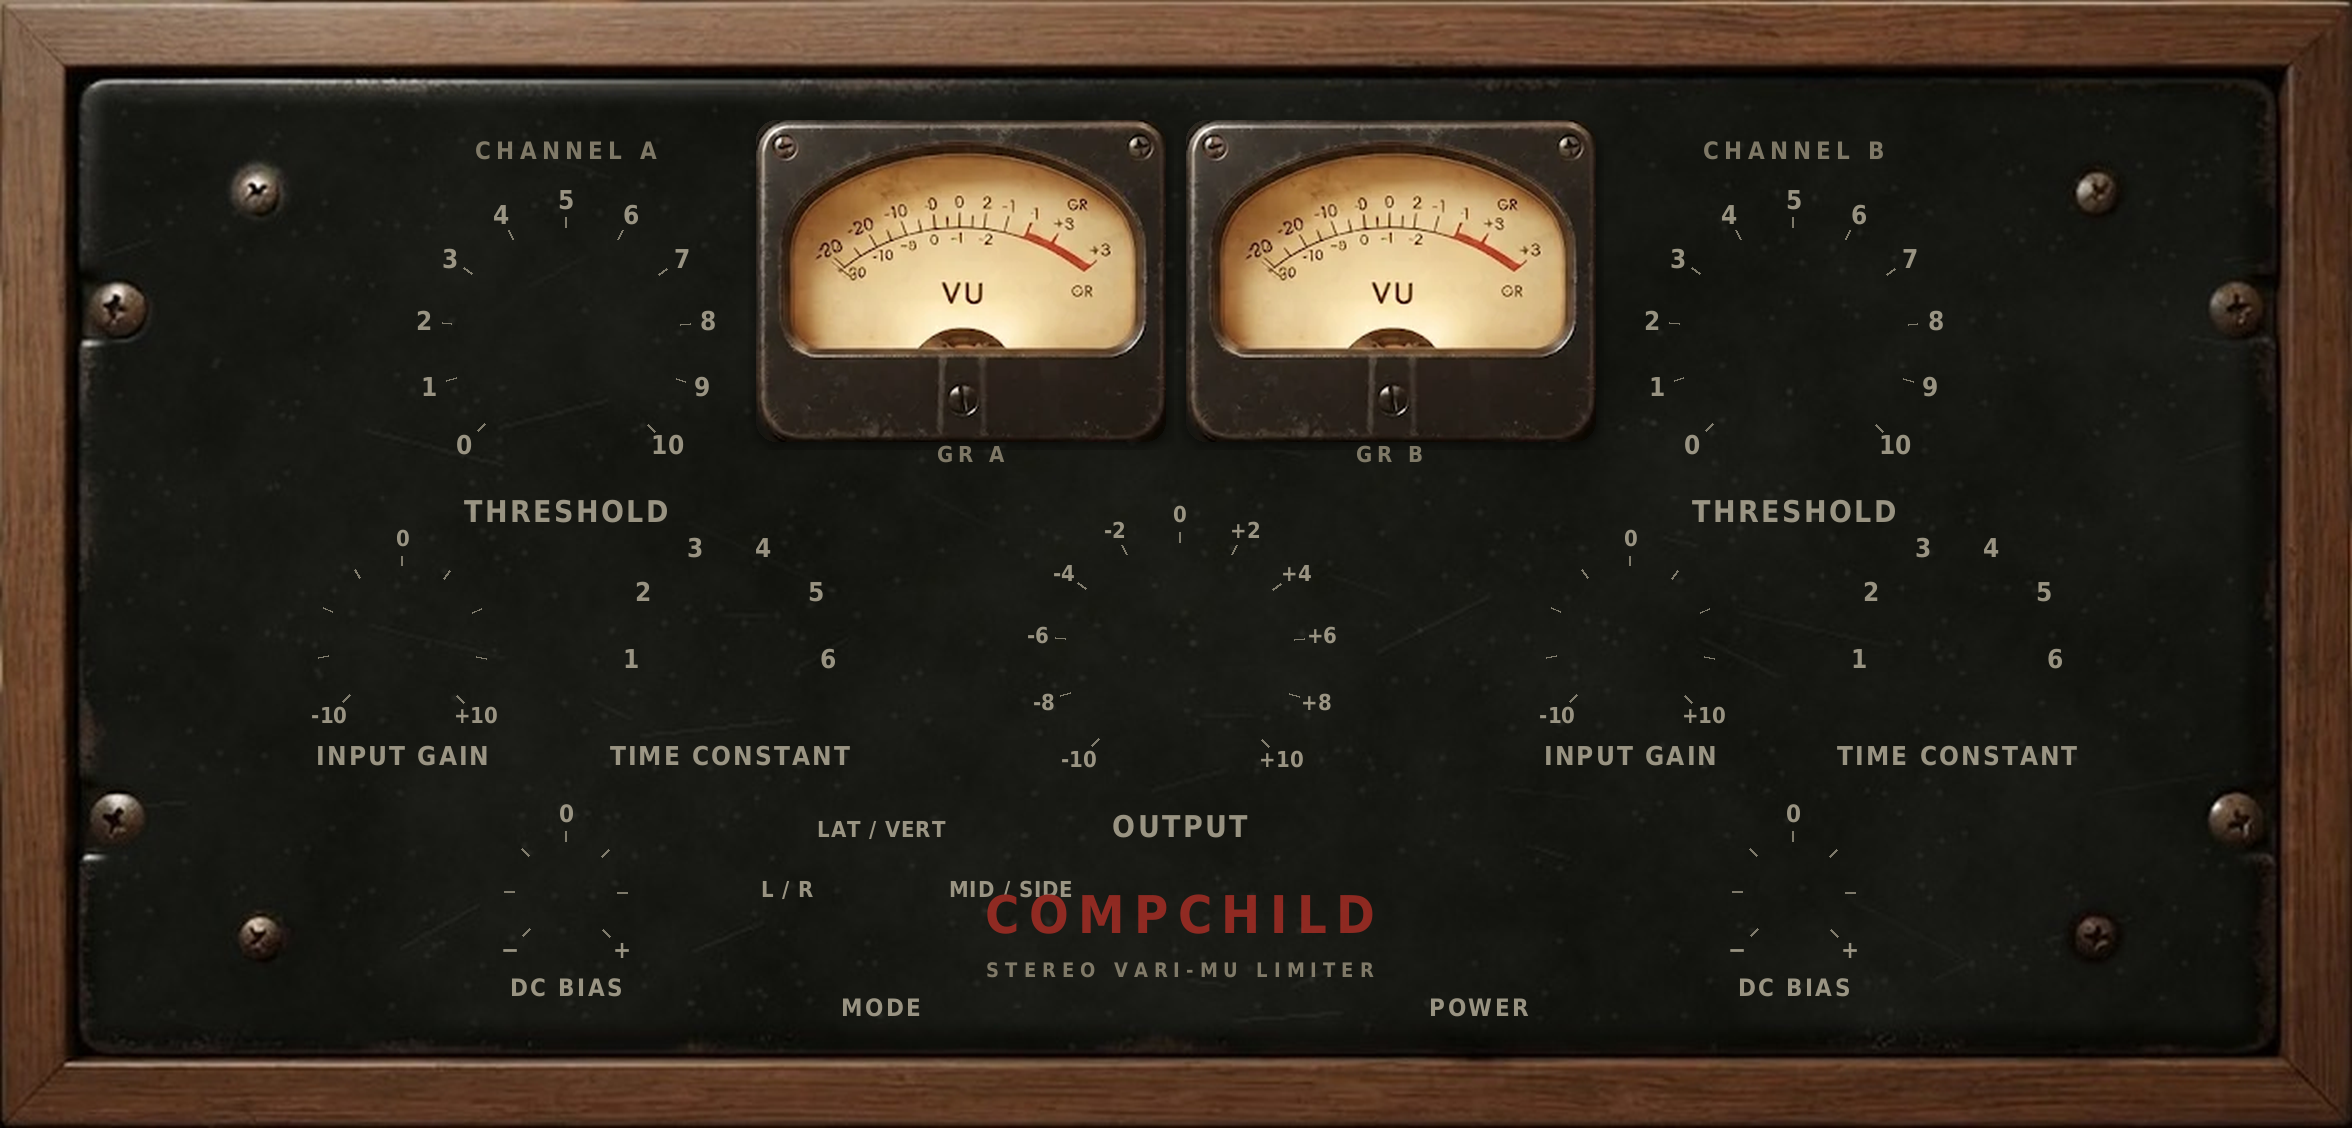
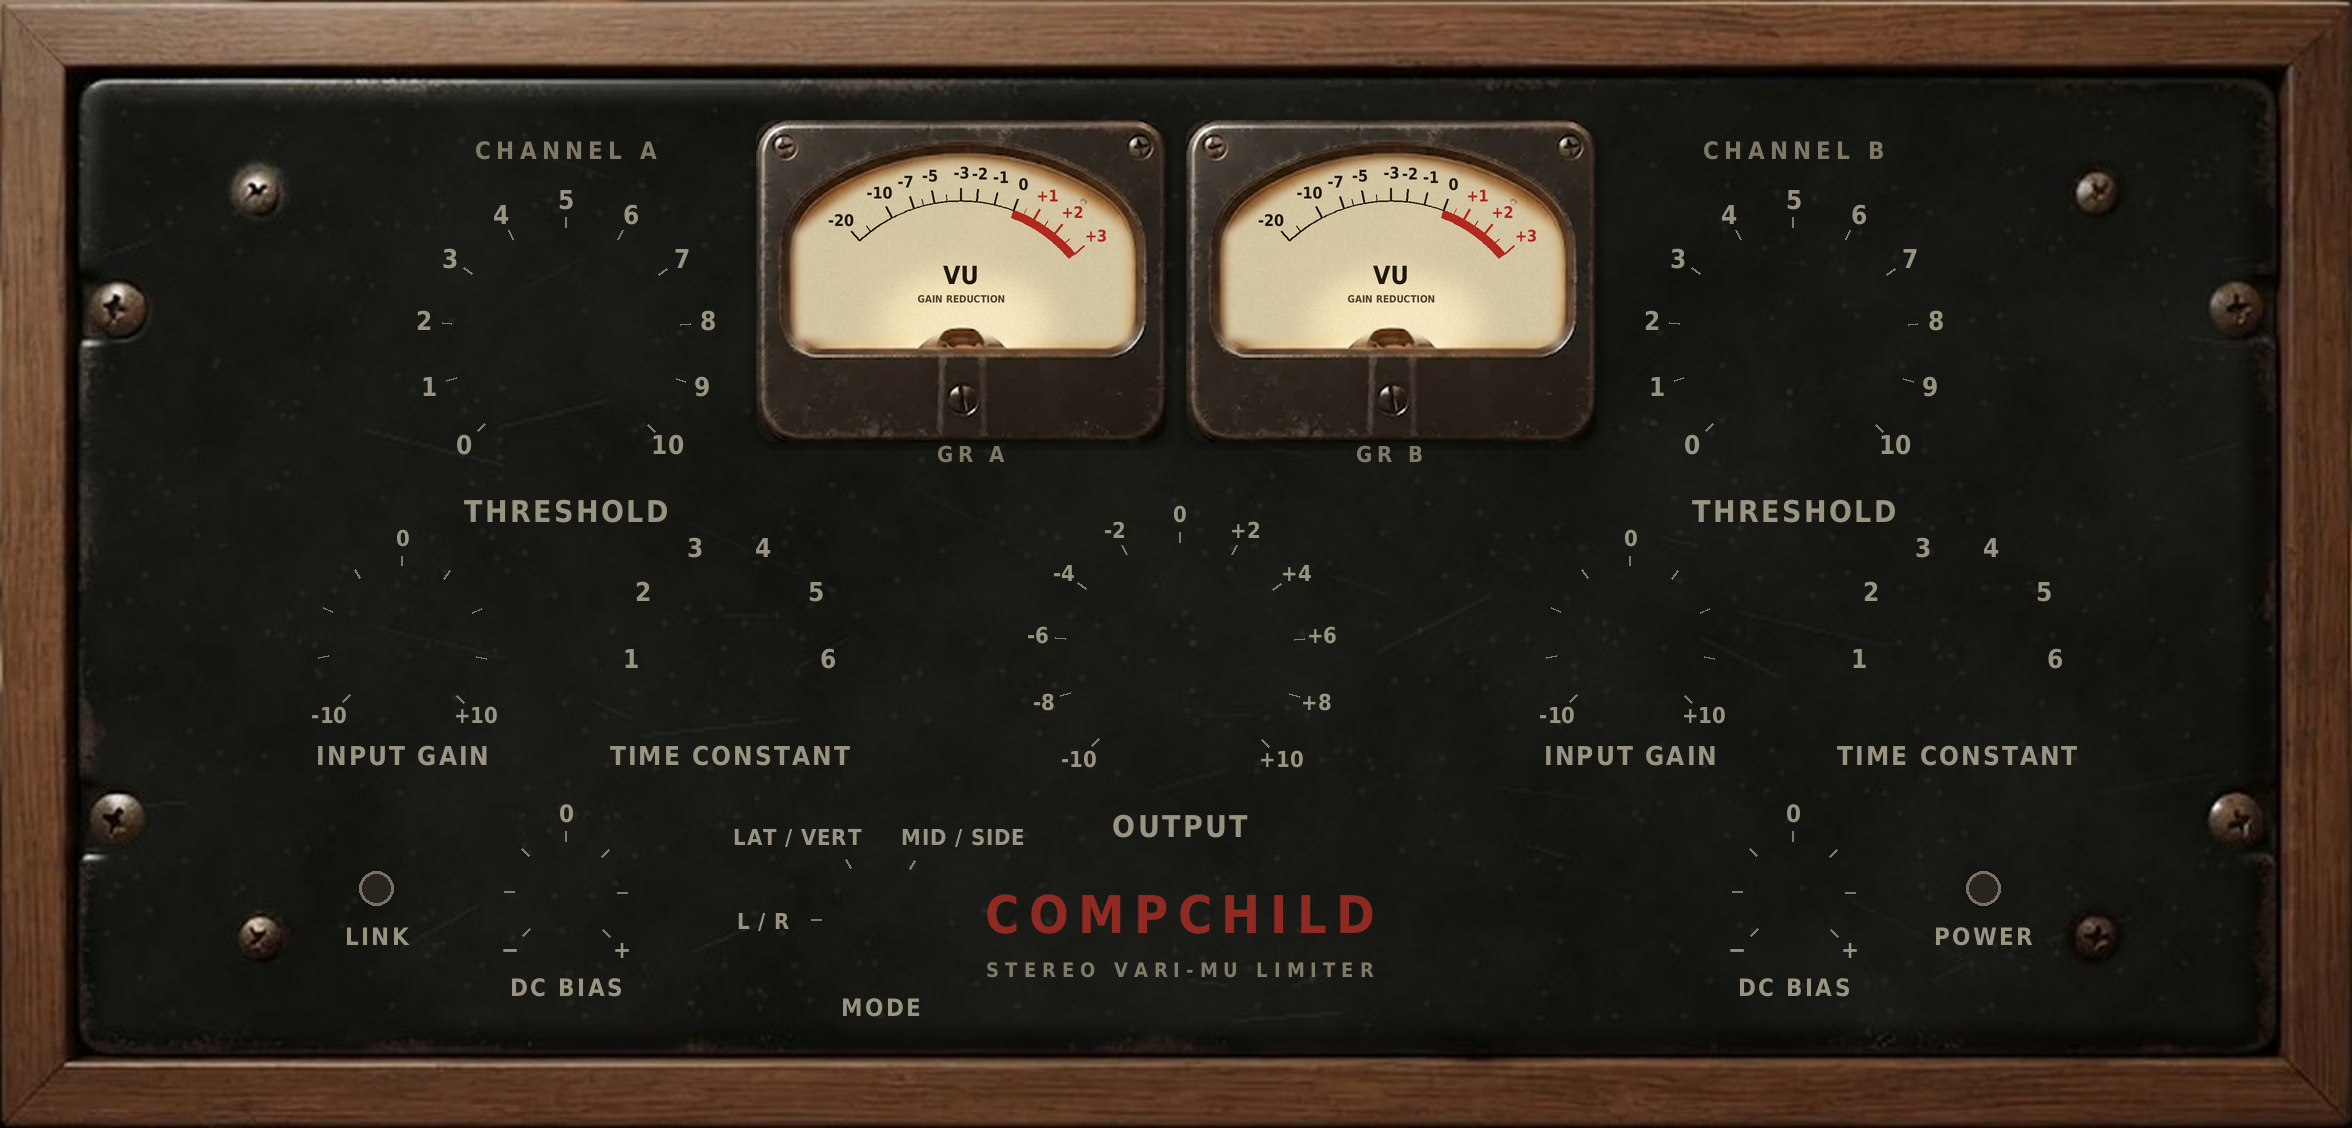
UI: real VU scale and needles, clear title, red LINK/POWER lamps
- meter faces repainted with a standard VU scale; needles pivot under the
  dome, taper, cast a shadow and stay inside the glass; GR reads on the scale
- MODE labels moved so they no longer overlap the title
- LINK and POWER are now jewel lamps with engraved labels in the lower corners

Claude-Session: https://claude.ai/code/session_01XSiDmkCVUNyHSyFPCkZesz

diff --git a/Source/PluginEditor.cpp b/Source/PluginEditor.cpp
@@ -5,17 +5,40 @@ namespace
 {
     constexpr int kW = 1176, kH = 564;
 
-    // VU meters: face top-left corners, needle pivot inside the face, needle length
+    // VU meters: face top-left corners, needle pivot (centre of the dome), needle length
     constexpr float vuLeft[2] = { 378.0f, 593.0f };
-    constexpr float vuTop = 60.0f, pivotX = 102.5f, pivotY = 114.7f, needleLen = 80.0f;
-    constexpr float needleRest = -52.0f, needleZero = 0.0f;   // left peg / 0 dB GR mark
+    constexpr float vuTop = 60.0f, pivotX = 102.5f, pivotY = 114.7f, needleLen = 79.0f;
+    constexpr float faceScale = 205.0f / 486.0f;              // face artwork coordinates -> editor
 
-    // power button + LED, link button (editor coordinates, from the design)
-    const juce::Point<float> powerCentre { 738.0f, 476.0f };
-    const juce::Point<float> ledCentre   { 758.5f, 475.5f };
-    const juce::Rectangle<int> linkBounds { 554, 226, 68, 24 };
+    // VU law: deflection follows voltage, +3 VU = full scale, sweep -50..+50 degrees
+    float vuAngle (float vu) { return -50.0f + 100.0f * std::pow (10.0f, vu / 20.0f) / std::pow (10.0f, 3.0f / 20.0f); }
+    constexpr float needleRest = -50.0f;                       // left stop (power off)
 
-    const juce::Colour orange (0xffffb020), orangeDeep (0xffff7a00);
+    // glass window of the meter face (same shape the face artwork was cleaned with)
+    juce::Path glassPath (float left)
+    {
+        juce::Path p;
+        auto px = [&] (float x) { return left + x * faceScale; };
+        auto py = [&] (float y) { return vuTop + y * faceScale; };
+        p.startNewSubPath (px (46.0f), py (262.0f));
+        for (int i = 0; i <= 60; ++i)
+        {
+            const float x = 46.0f + (440.0f - 46.0f) * (float) i / 60.0f, t = (x - 243.0f) / 203.0f;
+            p.lineTo (px (x), py (40.0f + 92.0f * t * t + 4.0f));
+        }
+        p.lineTo (px (440.0f), py (262.0f));
+        p.closeSubPath();
+        return p;
+    }
+    // dome sprite position inside the face (artwork made at 4x the 205x161 face)
+    const juce::Rectangle<float> domeBox { 357.0f / 4.0f, 406.0f / 4.0f, 105.0f / 4.0f, 54.0f / 4.0f };
+
+    // LINK (bottom left) and POWER (bottom right): button centres and the jewel lamps above them
+    // (the lamp and its word are the clickable area)
+    const juce::Point<float> linkLamp  { 188.4f, 444.4f }, powerLamp { 991.6f, 444.4f };
+    const juce::Rectangle<float> hitArea { 70.0f, 50.0f };   // centred on lamp + label
+
+    const juce::Colour orange (0xffffb020), orangeDeep (0xffff7a00), lampRed (0xffff2a12);
 
     juce::Image loadPng (const void* data, int size) { return juce::ImageCache::getFromMemory (data, size); }
 }
@@ -47,7 +70,7 @@ void CompchildLookAndFeel::drawRotarySlider (juce::Graphics& g, int x, int y, in
     else if (kind == 2)   // mode: L/R, LAT/VERT, MID/SIDE
     {
         const int idx = juce::roundToInt (pos * 2.0f);
-        angleDeg = -50.0f + 50.0f * (float) idx - 15.0f;
+        angleDeg = -90.0f + 60.0f * (float) idx - 15.0f;     // L/R, LAT/VERT, MID/SIDE
         img = &knobPointer;
     }
     else                  // big black knob: image is drawn at its minimum position
@@ -68,69 +91,21 @@ void CompchildLookAndFeel::drawRotarySlider (juce::Graphics& g, int x, int y, in
 }
 
 //==============================================================================
-void PowerButton::paintButton (juce::Graphics& g, bool over, bool)
+void PanelButton::paintButton (juce::Graphics& g, bool over, bool)
 {
-    const auto b = getLocalBounds().toFloat().reduced (1.0f);
-    const bool on = getToggleState();
-
-    if (on)
+    // nothing to draw: the lamp (editor) and the engraved word (panel) are the button
+    if (over)
     {
-        for (int i = 3; i >= 1; --i)
-        {
-            g.setColour (orangeDeep.withAlpha (0.10f * (float) i));
-            g.fillEllipse (b.expanded ((float) (4 - i) * 2.0f).reduced (0.0f));
-        }
+        g.setColour (juce::Colours::white.withAlpha (0.04f));
+        g.fillRoundedRectangle (getLocalBounds().toFloat().reduced (2.0f), 6.0f);
     }
-    juce::ColourGradient grad (juce::Colour (0xff2c2b28), b.getX() + b.getWidth() * 0.4f, b.getY() + b.getHeight() * 0.35f,
-                               juce::Colour (0xff0b0b0a), b.getRight(), b.getBottom(), true);
-    g.setGradientFill (grad);
-    g.fillEllipse (b);
-    g.setColour (juce::Colour (over ? 0xff57534a : 0xff3a3833));
-    g.drawEllipse (b, 1.5f);
-
-    if (icon.isValid())
-    {
-        const auto ib = b.reduced (b.getWidth() * 0.12f);
-        if (on)
-        {
-            g.setColour (orange);
-            g.drawImage (icon, ib, juce::RectanglePlacement::centred, true);   // tint the icon orange
-        }
-        else
-        {
-            g.setOpacity (0.75f);
-            g.drawImage (icon, ib, juce::RectanglePlacement::centred, false);
-        }
-    }
-}
-
-void LinkButton::paintButton (juce::Graphics& g, bool over, bool)
-{
-    const auto b = getLocalBounds().toFloat().reduced (0.5f);
-    const bool on = getToggleState();
-    g.setColour (juce::Colour (0xff0f0f0e));
-    g.fillRoundedRectangle (b, b.getHeight() * 0.5f);
-    g.setColour (juce::Colour (over ? 0xff57534a : 0xff3a3833));
-    g.drawRoundedRectangle (b, b.getHeight() * 0.5f, 1.0f);
-
-    const juce::Rectangle<float> led (b.getX() + 12.0f, b.getCentreY() - 3.5f, 7.0f, 7.0f);
-    if (on)
-    {
-        g.setColour (orangeDeep.withAlpha (0.35f));
-        g.fillEllipse (led.expanded (3.0f));
-    }
-    g.setColour (on ? orange : juce::Colour (0xff3a3833));
-    g.fillEllipse (led);
-
-    g.setColour (on ? juce::Colour (0xffffc061) : juce::Colour (0xff8a8273));
-    g.setFont (juce::Font (juce::FontOptions (11.0f, juce::Font::bold)).withExtraKerningFactor (0.14f));
-    g.drawText ("LINK", b.withTrimmedLeft (24.0f), juce::Justification::centredLeft);
 }
 
 //==============================================================================
 CompchildEditor::CompchildEditor (CompchildProcessor& p) : AudioProcessorEditor (&p), proc (p)
 {
     background = loadPng (BinaryData::background_png, BinaryData::background_pngSize);
+    dome       = loadPng (BinaryData::vu_dome_png,    BinaryData::vu_dome_pngSize);
     power.icon = loadPng (BinaryData::power_png, BinaryData::power_pngSize);
 
     // layout from the Compchild wood-panel design (1176 x 564)
@@ -168,7 +143,7 @@ CompchildEditor::CompchildEditor (CompchildProcessor& p) : AudioProcessorEditor 
     link.setTooltip ("Link: channel A controls both channels");
     powerAtt = std::make_unique<juce::AudioProcessorValueTreeState::ButtonAttachment> (proc.apvts, ids::power, power);
     linkAtt  = std::make_unique<juce::AudioProcessorValueTreeState::ButtonAttachment> (proc.apvts, ids::link,  link);
-    link.onClick = [this] { if (link.getToggleState()) copyAtoB(); };
+    link.onClick = [this] { if (link.getToggleState()) copyAtoB(); repaint(); };
     power.onClick = [this] { repaint(); };
 
     setSize (kW, kH);
@@ -222,8 +197,8 @@ void CompchildEditor::resized()
         const float cx = (float) props["cx"], cy = (float) props["cy"], size = (float) props["size"];
         k->slider.setBounds (juce::Rectangle<float> (size, size).withCentre ({ cx, cy }).transformedBy (juce::AffineTransform::scale (sc)).toNearestInt());
     }
-    power.setBounds (juce::Rectangle<float> (24.0f, 24.0f).withCentre (powerCentre).transformedBy (juce::AffineTransform::scale (sc)).toNearestInt());
-    link.setBounds (linkBounds.toFloat().transformedBy (juce::AffineTransform::scale (sc)).toNearestInt());
+    power.setBounds (hitArea.withCentre (powerLamp.translated (0.0f, 12.0f)).transformedBy (juce::AffineTransform::scale (sc)).toNearestInt());
+    link.setBounds  (hitArea.withCentre (linkLamp.translated  (0.0f, 12.0f)).transformedBy (juce::AffineTransform::scale (sc)).toNearestInt());
 }
 
 void CompchildEditor::paint (juce::Graphics& g)
@@ -241,29 +216,53 @@ void CompchildEditor::paintOverChildren (juce::Graphics& g)
     const float sc = (float) getWidth() / (float) kW;
     g.addTransform (juce::AffineTransform::scale (sc));
 
-    // VU needles
+    // VU needles: pivot under the dome, tapered, with a soft shadow on the paper, clipped to the glass
     for (int i = 0; i < 2; ++i)
     {
+        juce::Graphics::ScopedSaveState ss (g);
+        g.reduceClipRegion (glassPath (vuLeft[i]));
         const juce::Point<float> pivot (vuLeft[i] + pivotX, vuTop + pivotY);
         const float a = juce::degreesToRadians (needle[i]);
-        const juce::Point<float> tip (pivot.x + needleLen * std::sin (a), pivot.y - needleLen * std::cos (a));
-        const juce::Point<float> base (pivot.x + 22.0f * std::sin (a), pivot.y - 22.0f * std::cos (a));
-        g.setColour (juce::Colours::black.withAlpha (0.25f));
-        g.drawLine ({ base.translated (1.5f, 2.0f), tip.translated (1.5f, 2.0f) }, 2.0f);
-        g.setColour (juce::Colour (0xff1b1510));
-        g.drawLine ({ base, tip }, 1.8f);
+        const juce::Point<float> dir (std::sin (a), -std::cos (a)), nrm (std::cos (a), std::sin (a));
+        auto needlePath = [&] (juce::Point<float> o)
+        {
+            juce::Path p;
+            const auto base = pivot + o, tip = pivot + o + dir * needleLen;
+            p.startNewSubPath (base + nrm * 1.6f);
+            p.lineTo (tip + nrm * 0.45f);
+            p.lineTo (tip - nrm * 0.45f);
+            p.lineTo (base - nrm * 1.6f);
+            p.closeSubPath();
+            return p;
+        };
+        g.setColour (juce::Colours::black.withAlpha (0.10f)); g.fillPath (needlePath ({ 2.6f, 3.4f }));
+        g.setColour (juce::Colours::black.withAlpha (0.16f)); g.fillPath (needlePath ({ 1.6f, 2.2f }));
+        g.setColour (juce::Colour (0xff17120d));              g.fillPath (needlePath ({ 0.0f, 0.0f }));
+        if (dome.isValid())
+            g.drawImage (dome, domeBox.translated (vuLeft[i], vuTop));
     }
 
-    // power LED
-    const bool on = power.getToggleState();
-    const auto led = juce::Rectangle<float> (7.0f, 7.0f).withCentre (ledCentre);
-    if (on)
+    // jewel lamps above LINK and POWER
+    auto lamp = [&] (juce::Point<float> c, bool lit)
     {
-        g.setColour (orangeDeep.withAlpha (0.35f));
-        g.fillEllipse (led.expanded (4.0f));
-    }
-    g.setColour (on ? orange : juce::Colour (0xff3a3833));
-    g.fillEllipse (led);
+        const auto r = juce::Rectangle<float> (12.0f, 12.0f).withCentre (c);
+        if (lit)
+        {
+            for (int i = 3; i >= 1; --i) { g.setColour (lampRed.withAlpha (0.10f * (float) i)); g.fillEllipse (r.expanded (2.5f * (float) (4 - i))); }
+            juce::ColourGradient jg (juce::Colour (0xffffb4a4), c.x - 1.5f, c.y - 2.0f, juce::Colour (0xffc4140a), r.getRight(), r.getBottom(), true);
+            g.setGradientFill (jg);
+        }
+        else
+        {
+            juce::ColourGradient jg (juce::Colour (0xff5a1a14), c.x - 1.5f, c.y - 2.0f, juce::Colour (0xff1a0806), r.getRight(), r.getBottom(), true);
+            g.setGradientFill (jg);
+        }
+        g.fillEllipse (r);
+        g.setColour (juce::Colours::white.withAlpha (lit ? 0.55f : 0.18f));
+        g.fillEllipse (juce::Rectangle<float> (3.0f, 2.2f).withCentre (c.translated (-2.0f, -2.6f)));
+    };
+    lamp (linkLamp,  link.getToggleState());
+    lamp (powerLamp, power.getToggleState());
 }
 
 void CompchildEditor::timerCallback()
@@ -273,7 +272,8 @@ void CompchildEditor::timerCallback()
     bool changed = false;
     for (int i = 0; i < 2; ++i)
     {
-        const float target = on ? needleZero - (needleZero - needleRest) * juce::jlimit (0.0f, 1.0f, gr[i] / 20.0f) : needleRest;
+        // reads gain reduction on the VU scale: 0 GR = "0", 3 dB = "-3", 10 dB = "-10" ...
+        const float target = on ? vuAngle (-juce::jlimit (0.0f, 23.0f, gr[i])) : needleRest;
         const float next = needle[i] + (target - needle[i]) * 0.28f;     // ~300 ms VU-style ballistics at 30 Hz
         if (std::abs (next - needle[i]) > 0.01f) { needle[i] = next; changed = true; }
     }

diff --git a/Source/PluginEditor.h b/Source/PluginEditor.h
@@ -12,19 +12,16 @@ public:
     juce::Image knobBig, knobPointer;
 };
 
-class PowerButton : public juce::Button
+// LINK / POWER: invisible click area over the jewel lamp and its engraved word
+class PanelButton : public juce::Button
 {
 public:
-    PowerButton() : juce::Button ("Power") { setClickingTogglesState (true); }
+    enum class Icon { Power, Link };
+    PanelButton (const juce::String& name, Icon i) : juce::Button (name), iconType (i) { setClickingTogglesState (true); }
     void paintButton (juce::Graphics&, bool over, bool down) override;
-    juce::Image icon;
-};
-
-class LinkButton : public juce::Button
-{
-public:
-    LinkButton() : juce::Button ("Link") { setClickingTogglesState (true); }
-    void paintButton (juce::Graphics&, bool over, bool down) override;
+    juce::Image icon;   // power symbol artwork (Link is drawn)
+private:
+    Icon iconType;
 };
 
 class CompchildEditor : public juce::AudioProcessorEditor, private juce::Timer
@@ -50,14 +47,14 @@ private:
 
     CompchildProcessor& proc;
     CompchildLookAndFeel lnf;
-    juce::Image background;
+    juce::Image background, dome;
 
     Knob thA, inA, tcA, dcA, thB, inB, tcB, dcB, output, mode;
-    PowerButton power;
-    LinkButton link;
+    PanelButton link  { "Link",  PanelButton::Icon::Link };
+    PanelButton power { "Power", PanelButton::Icon::Power };
     std::unique_ptr<juce::AudioProcessorValueTreeState::ButtonAttachment> powerAtt, linkAtt;
 
-    float needle[2] { -52.0f, -52.0f };   // displayed needle angles (degrees)
+    float needle[2] { -50.0f, -50.0f };   // displayed needle angles (degrees)
     bool syncing = false;
 
     JUCE_DECLARE_NON_COPYABLE_WITH_LEAK_DETECTOR (CompchildEditor)

diff --git a/README.md b/README.md
@@ -6,9 +6,9 @@ Stereo vari-mu tube limiter (AU / VST3, macOS universal) on a vintage wood-panel
 - **Channel A / B** — Threshold (0–10, 0 = no compression), Input Gain (±10 dB), Time Constant 1–6, DC Bias (knee shape)
 - **Output** — ±10 dB
 - **Mode** — L/R, Lat/Vert (sum/difference, A = lateral, B = vertical), Mid/Side (only the mid is compressed)
-- **Link** — channel A's controls drive both channels (B follows on screen)
-- **Power** — bypass; glows orange when on
-- **GR A / GR B meters** — gain reduction, 0 to 20 dB
+- **Link** (red lamp, bottom left) — channel A’s controls drive both channels (B follows on screen)
+- **Power** (red lamp, bottom right) — bypass when off
+- **GR A / GR B meters** — VU scale; needle rests on 0 and reads gain reduction (-3 = 3 dB, -10 = 10 dB)
 
 ## Sound model (Source/dsp/VariMu.h)
 Fitted to black-box measurements of a reference vari-mu plugin (docs/measurements.json):
